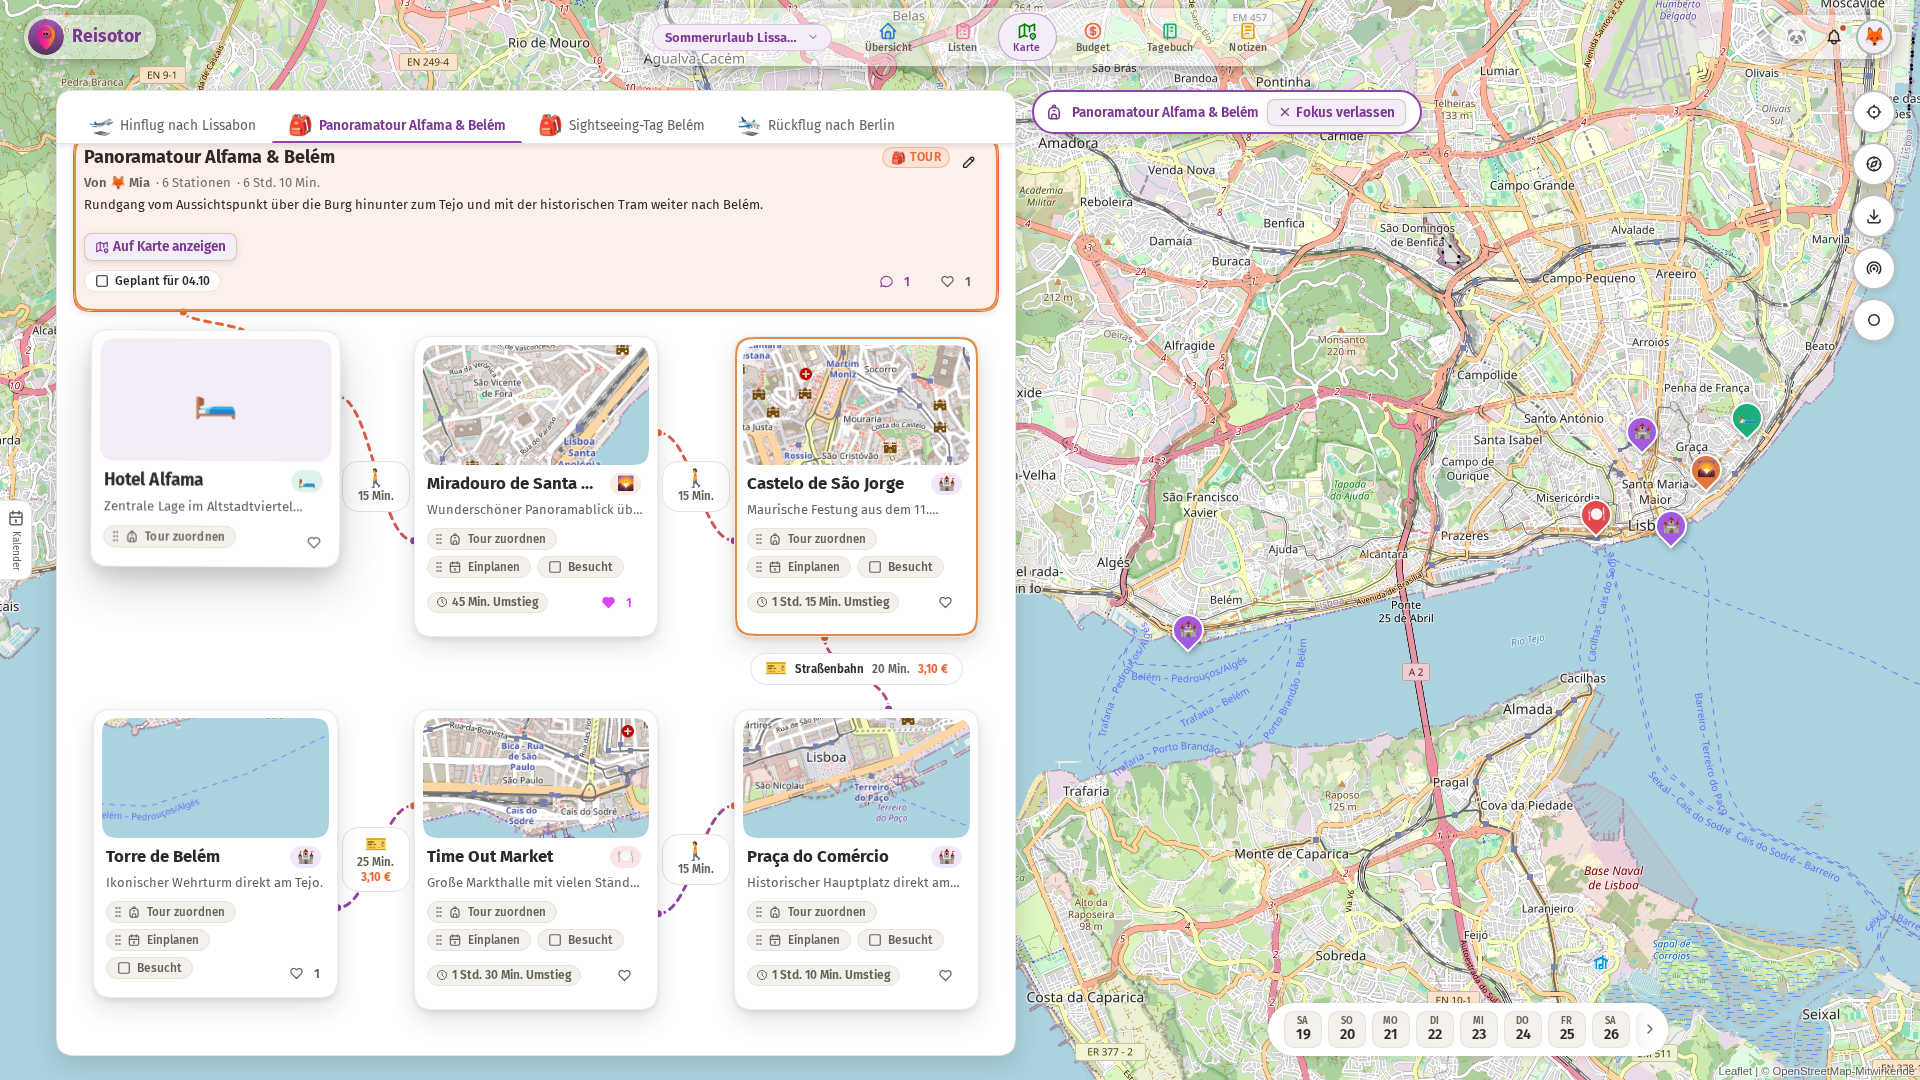
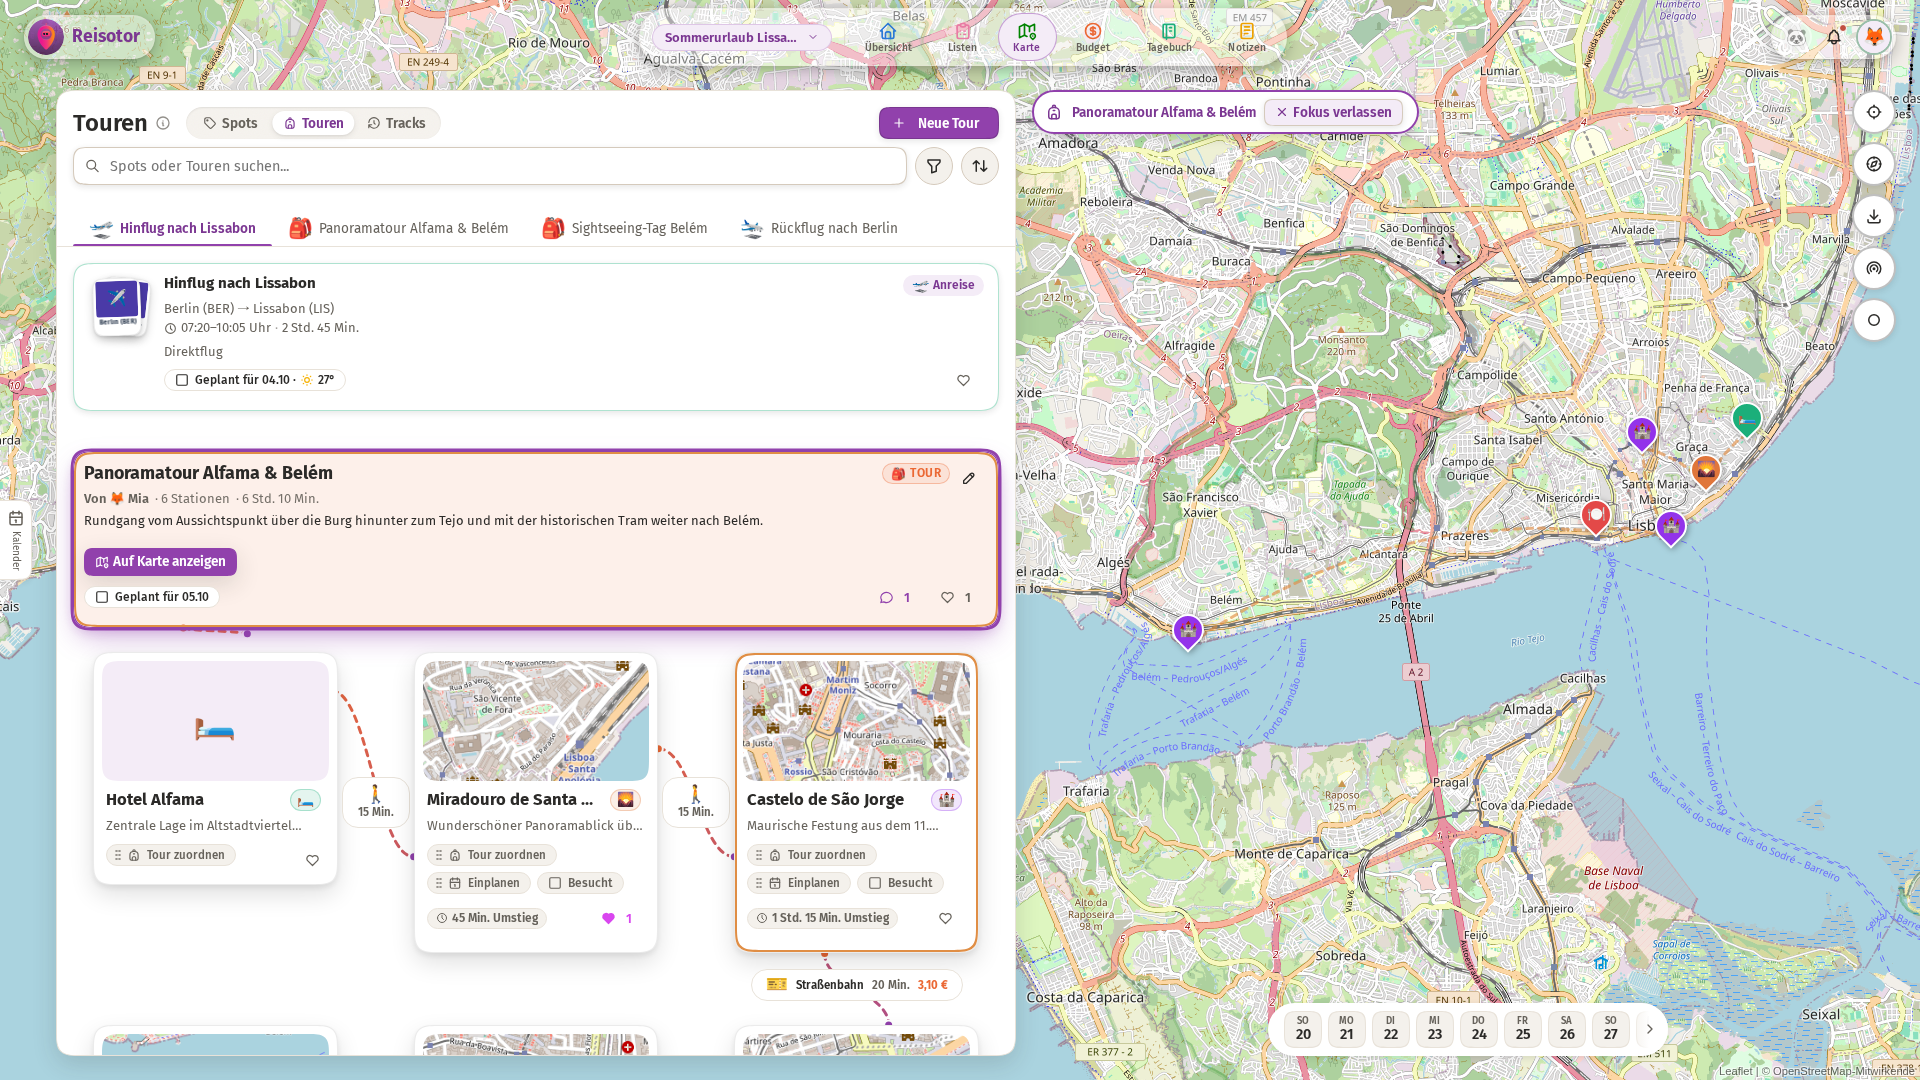
fix(screenshots): harmonize tour scroll clearance and synchronize baseline screenshots

diff --git a/frontend/src/views/ExcursionsView.vue b/frontend/src/views/ExcursionsView.vue
@@ -2220,10 +2220,12 @@ let activeScrollToken = 0;
  */
 async function scrollToElementInBody(elGetter: () => HTMLElement | null | undefined) {
   const token = ++activeScrollToken;
+  const prefersReduced =
+    typeof window !== 'undefined' && window.matchMedia('(prefers-reduced-motion: reduce)').matches;
 
   if (isSheetOverlayMode.value) {
     const sheet = sheetEl.value;
-    if (sheet) {
+    if (sheet && !prefersReduced) {
       const expectedHeight = sheetHeightPx(sheetState.value);
       const currentHeight = sheet.getBoundingClientRect().height;
       // Falls das Sheet noch animiert / die Höhe noch nicht der Ziel-Höhe entspricht:
@@ -2267,7 +2269,7 @@ async function scrollToElementInBody(elGetter: () => HTMLElement | null | undefi
 
   const body = spotsColBodyEl.value;
   if (!body) {
-    el.scrollIntoView({ behavior: 'smooth', block: 'start' });
+    el.scrollIntoView({ behavior: prefersReduced ? 'auto' : 'smooth', block: 'start' });
     return;
   }
 
@@ -2298,7 +2300,7 @@ async function scrollToElementInBody(elGetter: () => HTMLElement | null | undefi
   // damit der obere Schatten und Fokus-Rand der Spot-Card vollständig sichtbar bleiben (#audit)
   const spacing = 16;
   const targetScrollTop = Math.max(0, elTopInBody - navClearance - spacing);
-  body.scrollTo({ top: targetScrollTop, behavior: 'smooth' });
+  body.scrollTo({ top: targetScrollTop, behavior: prefersReduced ? 'auto' : 'smooth' });
 }
 
 // Schreibt die Sheet-Höhe während des Ziehens direkt aufs Element (statt über eine reaktive

diff --git a/e2e/tests/tools/generate-baseline-screenshots.manual.spec.ts b/e2e/tests/tools/generate-baseline-screenshots.manual.spec.ts
@@ -354,14 +354,6 @@ test.describe('Generate Clean Production Baseline Screenshots (Full HD)', () => 
             .first()
             .waitFor({ state: 'visible', timeout: 5000 })
             .catch(() => {});
-          await page.evaluate(() => {
-            const tourCard = Array.from(document.querySelectorAll('.tour-group-card')).find((el) =>
-              el.textContent?.includes('Panoramatour')
-            );
-            if (tourCard) {
-              tourCard.scrollIntoView({ block: 'start' });
-            }
-          });
           await waitForMapTiles(page);
         }
 
